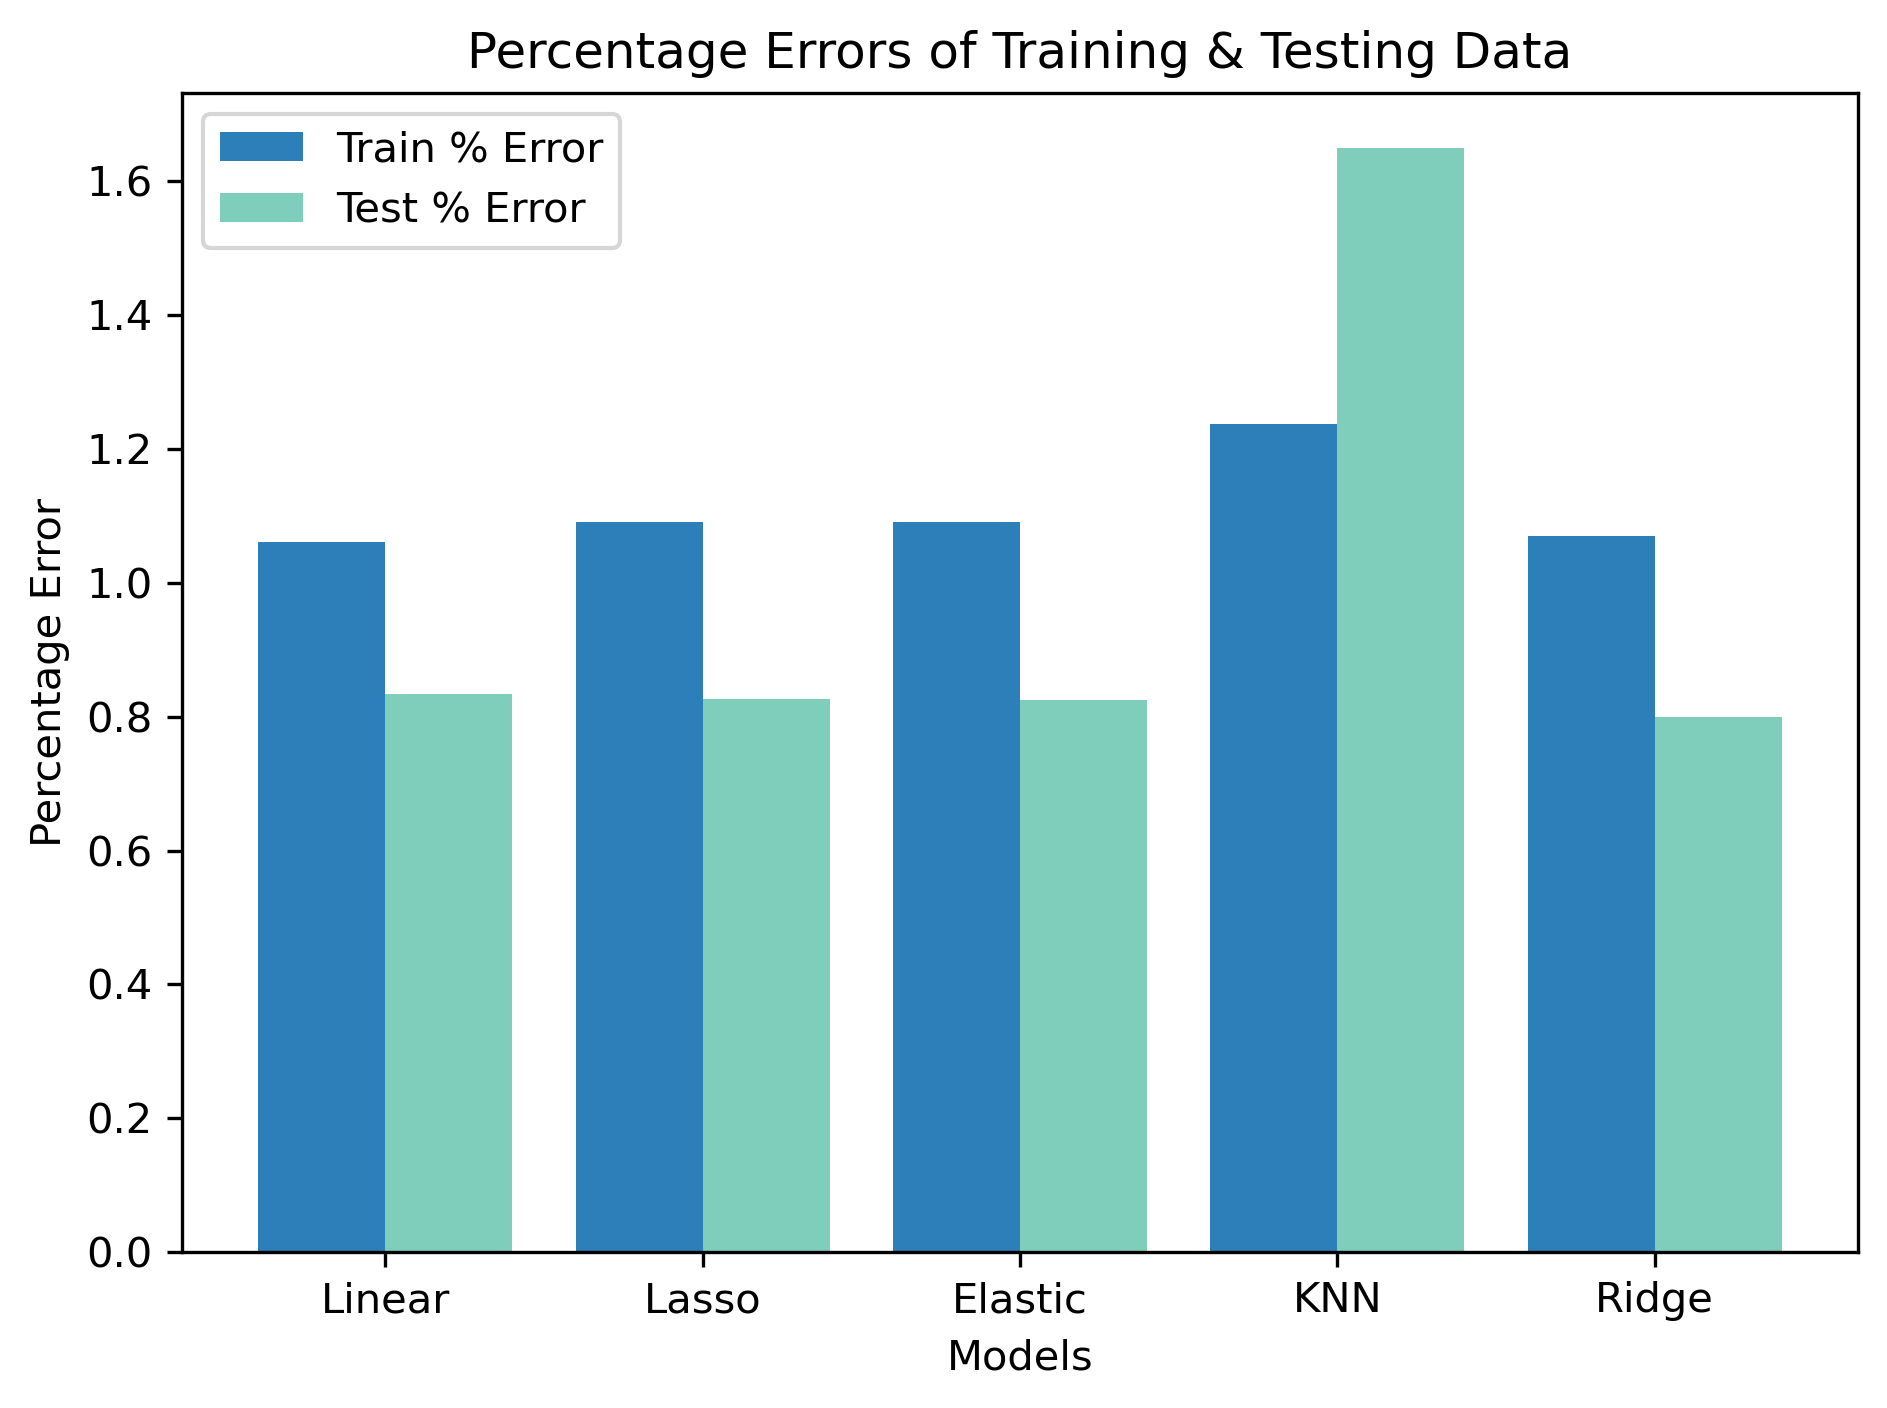
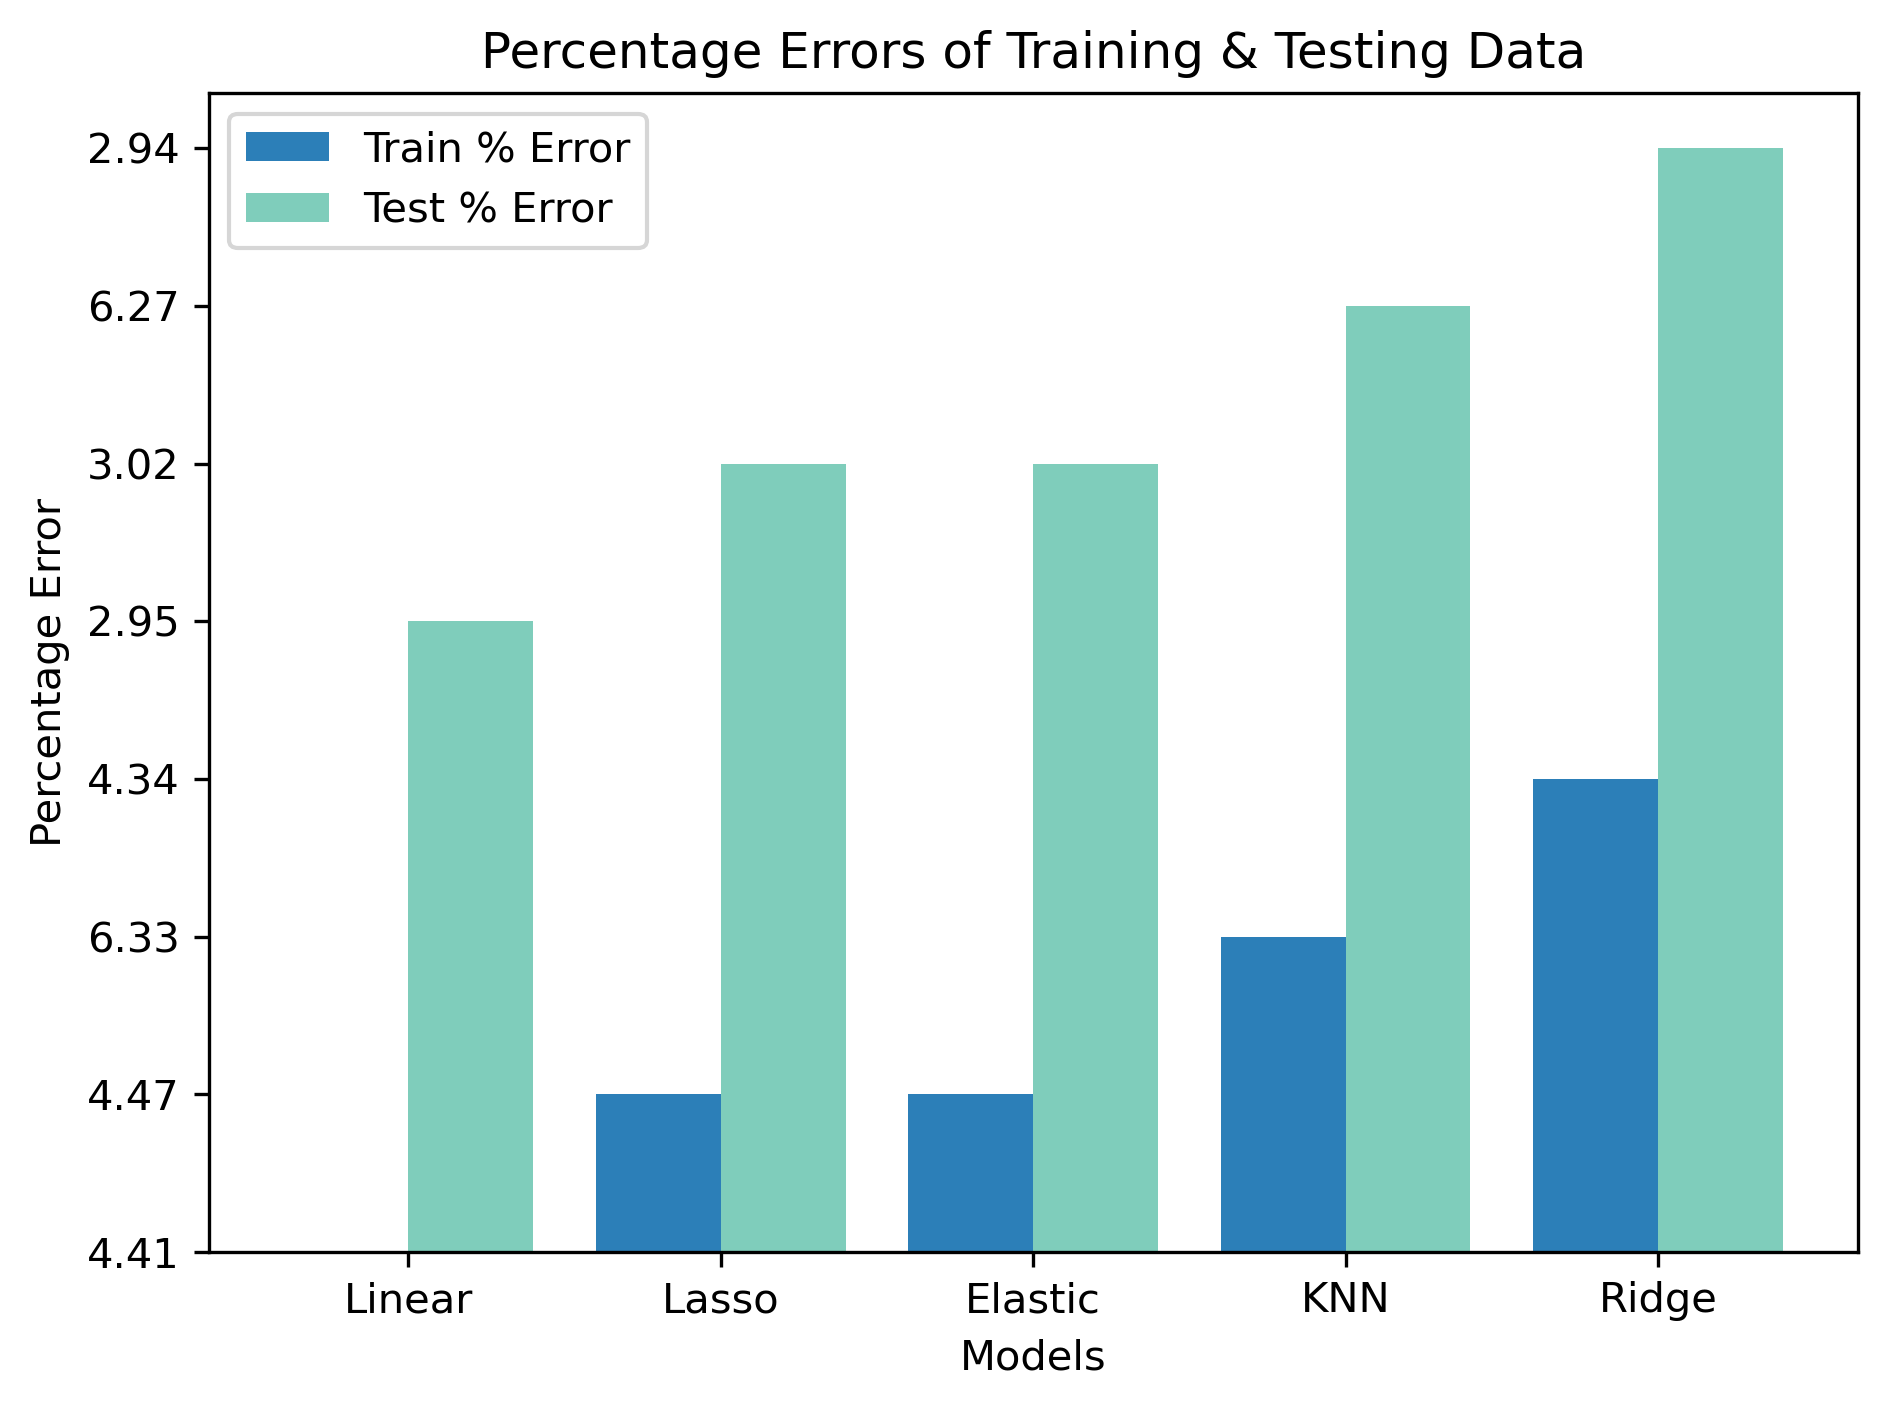
Making final modifications

Changed region(s): [[0.0307, 0.0625, 0.9528, 0.9688], [0.2459, 0.0, 0.8299, 0.0625], [0.8299, 0.9062, 0.9221, 0.9375]]

diff --git a/code/model.py b/code/model.py
@@ -60,14 +60,14 @@ class RegressionModel():
         self.y_train_predictions = self.model.predict(self.x_train)
 
         # Receive the r2 score, and MAE of the model.
-        self.r2 = r2_score(self.y_test, self.y_test_predictions)
-        self.mse = mean_squared_error(self.y_test, self.y_test_predictions)
+        self.r2 = r2_score(np.exp(self.y_test), np.exp(self.y_test_predictions))
+        self.mse = mean_squared_error(np.exp(self.y_test), np.exp(self.y_test_predictions))
         self.rmse = np.sqrt(self.mse)
-        self.mae = np.mean(np.abs(self.y_test - self.y_test_predictions))
+        self.mae = np.mean(np.abs(np.exp(self.y_test) - np.exp(self.y_test_predictions)))
 
         # Calculate the model percentage error.
-        self.test_error = self.get_error_percentage(self.y_test, self.y_test_predictions)
-        self.train_error = self.get_error_percentage(self.y_train, self.y_train_predictions)
+        self.test_error = self.get_error_percentage(np.exp(self.y_test), np.exp(self.y_test_predictions))
+        self.train_error = self.get_error_percentage(np.exp(self.y_train), np.exp(self.y_train_predictions))
 
     def flatten_vector(self, data):
         # Ensure the data is of numpy array type.

diff --git a/code/main.py b/code/main.py
@@ -50,8 +50,13 @@ def display_corr(df):
     plt.savefig("../figures/results/heatmap.png", dpi=300, bbox_inches='tight')
 
 def compare_model_errors(linear, lasso, elastic, knn, ridge):
+    # Store the train_error of each model into a list and round the results to the nearest hundreth.
     train_error = [linear.train_error, lasso.train_error, elastic.train_error, knn.train_error, ridge.train_error]
+    train_error = ['%.2f' % elem for elem in train_error]
+
+    # Store the test_error of each model into a list and round the results to the nearest hundreth.
     test_error = [linear.test_error, lasso.test_error, elastic.test_error, knn.test_error, ridge.test_error]
+    test_error = ['%.2f' % elem for elem in test_error]
 
     col = {'Train Error (%)': train_error, 'Test Error (%)': test_error}
     models = ['Linear', 'Lasso', 'Elastic', 'KNN', 'Ridge']
